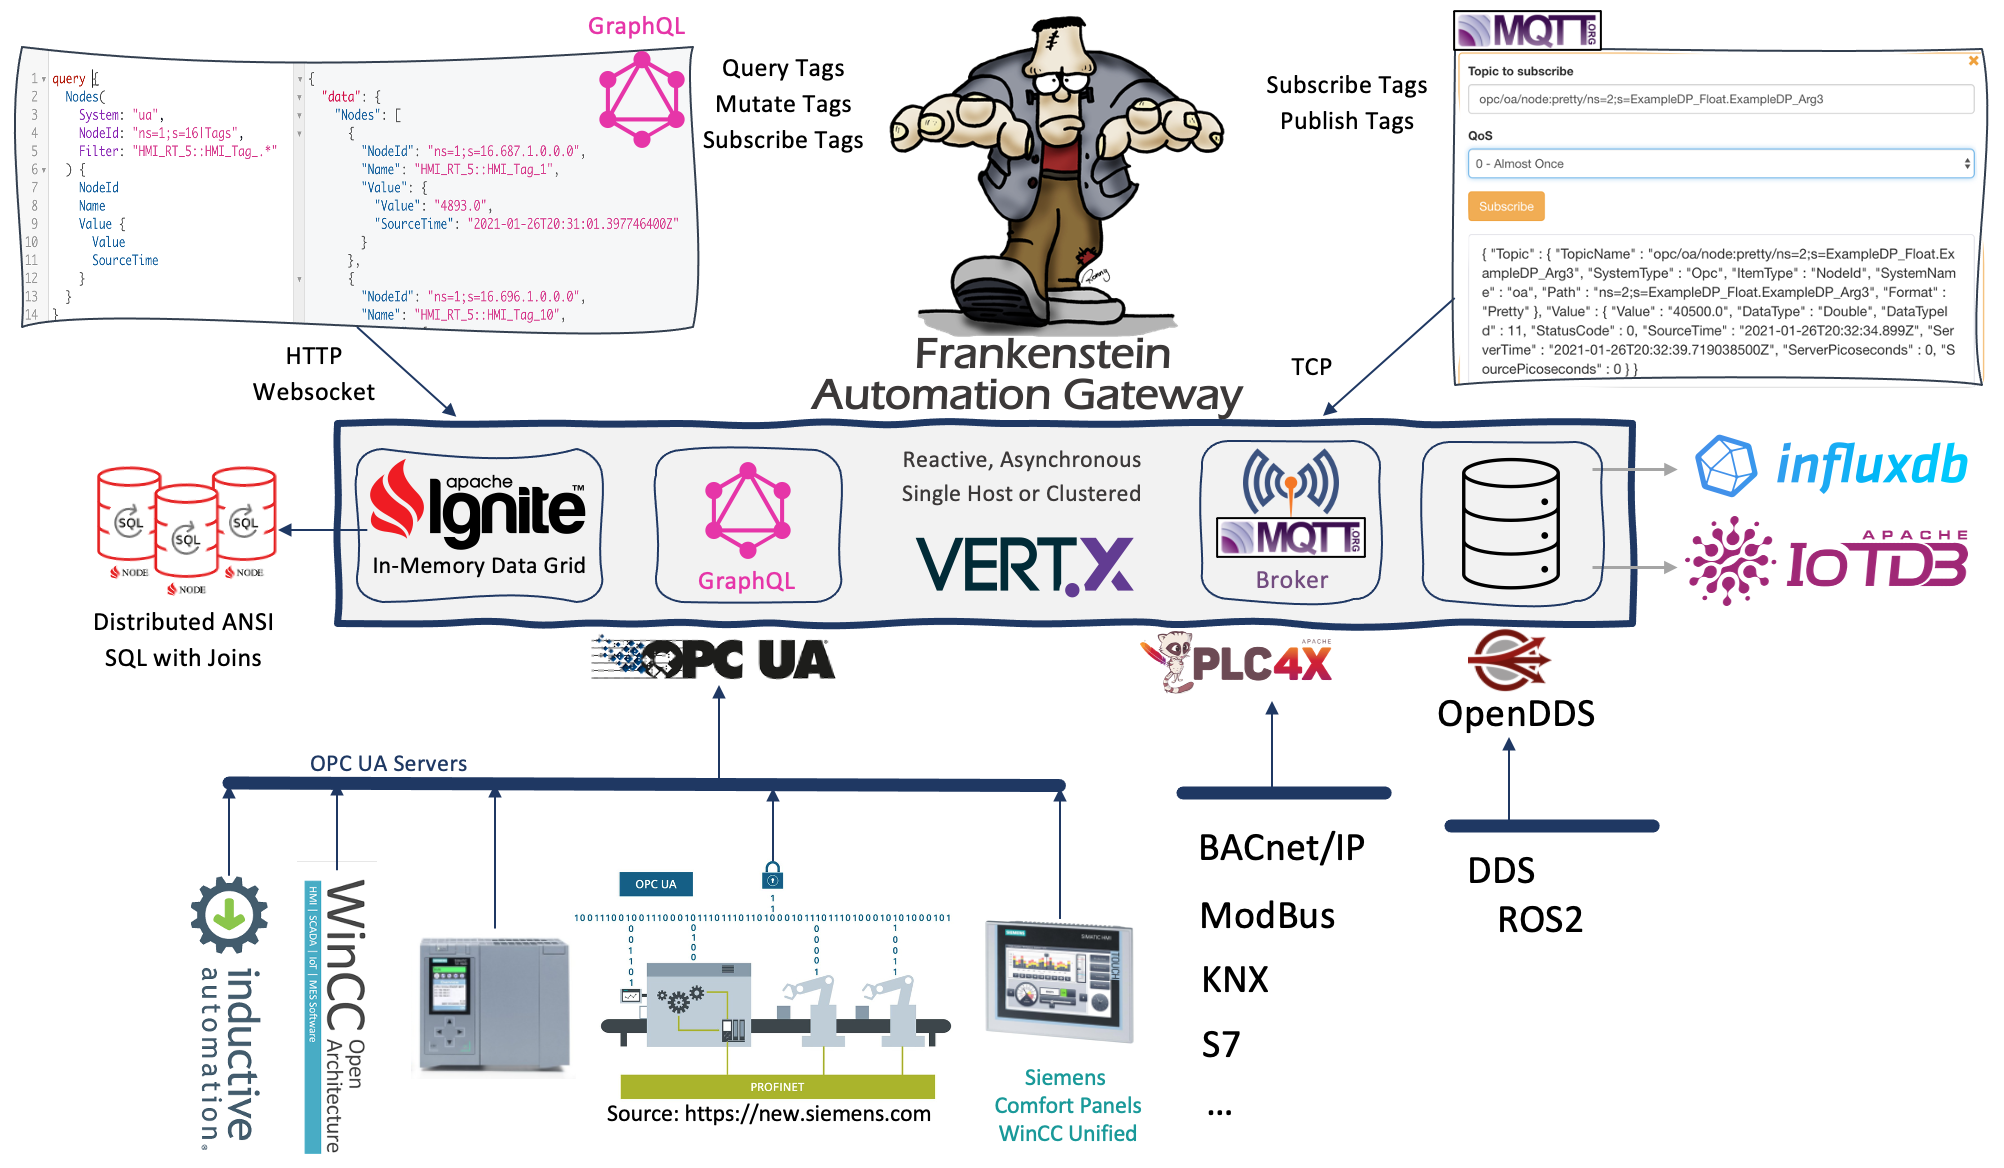
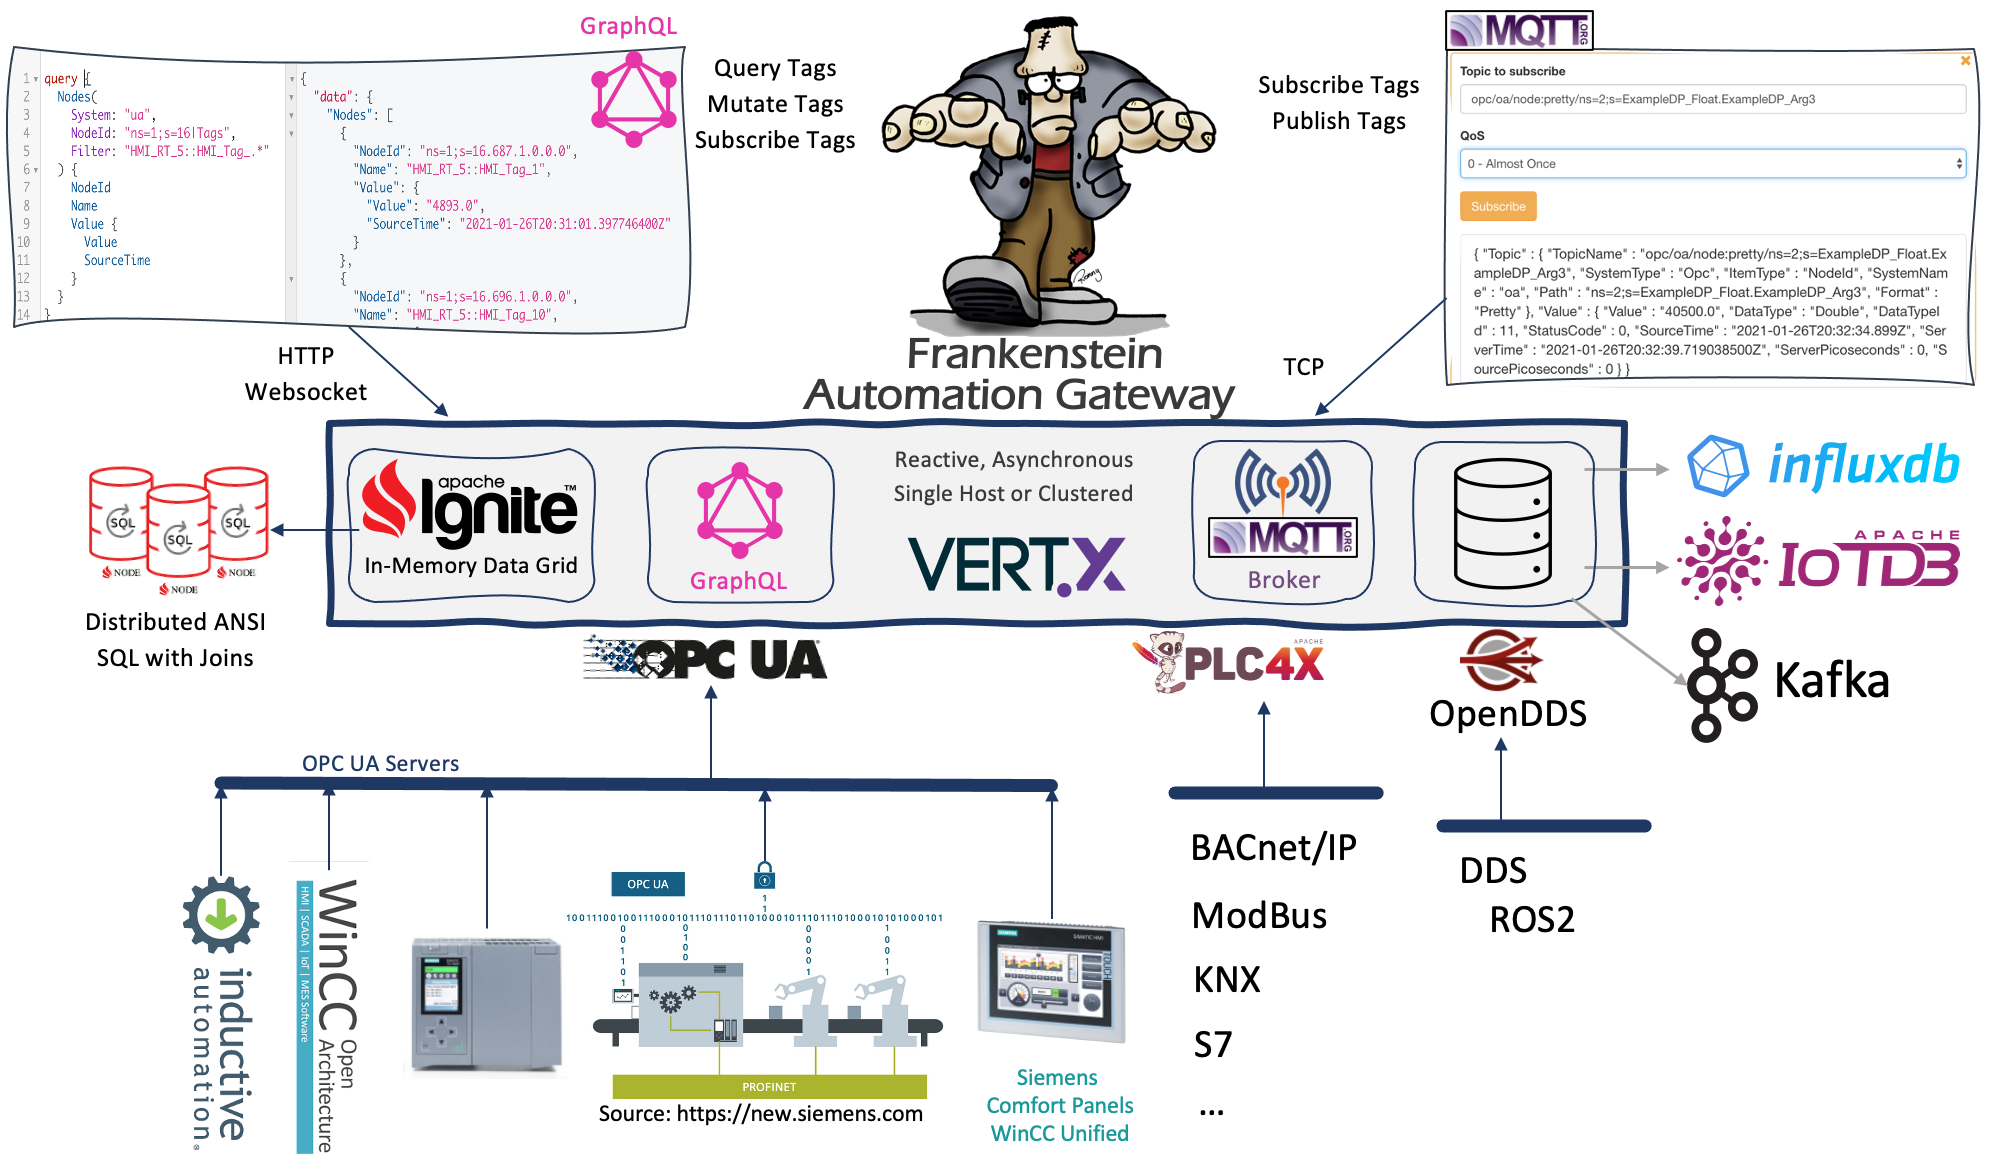
Apache Kafka logger

diff --git a/README.md b/README.md
@@ -21,7 +21,7 @@ App is a single program with GraphQL, MQTT and the OPC UA connections in one sin
 
 See config.yaml in the app directory for an example how to configure the Gateway. You can pass a configuration file name to the program as the first argument. If no argument is given then config.yaml will be used. If there are any questions about the configuration, please get in touch with me. 
 
-## Example MQTT Topics
+## Example Topics
 Note: remove the blanks between the slashes! (just here for better readabilty)
 
 Using the NodeId 
@@ -172,6 +172,73 @@ Example MQTT Topic:
 > plc/mod/node/coil:1  
 
 # Version History
+
+## v1.11
+Added Apache Kafka as tag logger option, all incoming value changes of the configured topics will be published to an Apache Kafka Broker.
+```
+Database:
+  Logger:
+    - Id: kafka1
+      Type: Kafka
+      Servers: server2:9092
+      WriteParameters:
+        QueueSize: 20000
+        BlockSize: 10000
+      Logging:
+        - Topic: opc/opc1/path/Objects/Demo/SimulationMass/SimulationMass_SByte/+
+        - Topic: opc/opc1/path/Objects/Demo/SimulationMass/SimulationMass_Byte/+
+```
+
+You can also use KSQL to analyze the tag stream.
+Connect to a ksql cli:
+```
+docker exec -ti ksqldb-cli ksql http://ksqldb-server:8088
+```
+
+Create a stream for your logger. Each logger has its own Kafka-Topic. Topic name is equal to the source id of the tag (opc/**opc1**/...)
+```
+CREATE STREAM opc1(
+  browsePath VARCHAR KEY, 
+  sourceTime VARCHAR, 
+  value DOUBLE, 
+  statusCode VARCHAR
+) WITH (
+  KEY_FORMAT='KAFKA',
+  KAFKA_TOPIC='opc1', 
+  VALUE_FORMAT='JSON',
+  TIMESTAMP='sourceTime',TIMESTAMP_FORMAT='yyyy-MM-dd''T''HH:mm:ss.nX'
+);
+```
+
+Example of a simple quey:
+```
+SELECT node, COUNT(*) 
+FROM opc1 
+WINDOW SESSION (10 SECONDS) 
+WHERE node like '%_00' 
+GROUP BY node 
+EMIT CHANGES;
+```
+
+## v1.10
+Added Apache IoTDB as tag logger option.
+```
+Database:
+  Logger:
+   - Id: iotdb1
+      Type: IoTDB
+      Host: server2
+      Port: 6667
+      Database: root.scada1
+      Username: "root"
+      Password: "root"
+      WriteParameters:
+        QueueSize: 20000
+        BlockSize: 10000
+      Logging:
+        - Topic: opc/opc1/path/Objects/Demo/SimulationMass/SimulationMass_SByte/+
+        - Topic: opc/opc1/path/Objects/Demo/SimulationMass/SimulationMass_Byte/+
+```
 
 ## v1.9  
 Added Apache Ignite as an option for clustering and also to use the Apache Ignite Distributed In Memory Cache for storing last and history values coming from OPC UA or other sources. With that enabled it is possible to do SQL queries on the process values. The cache node stores historical value changes for a defined timerange. So older values are purged on a regular basis (configurable in the configuration file). It is configurable which topics should be stored in the Apache Ignite Cache.
